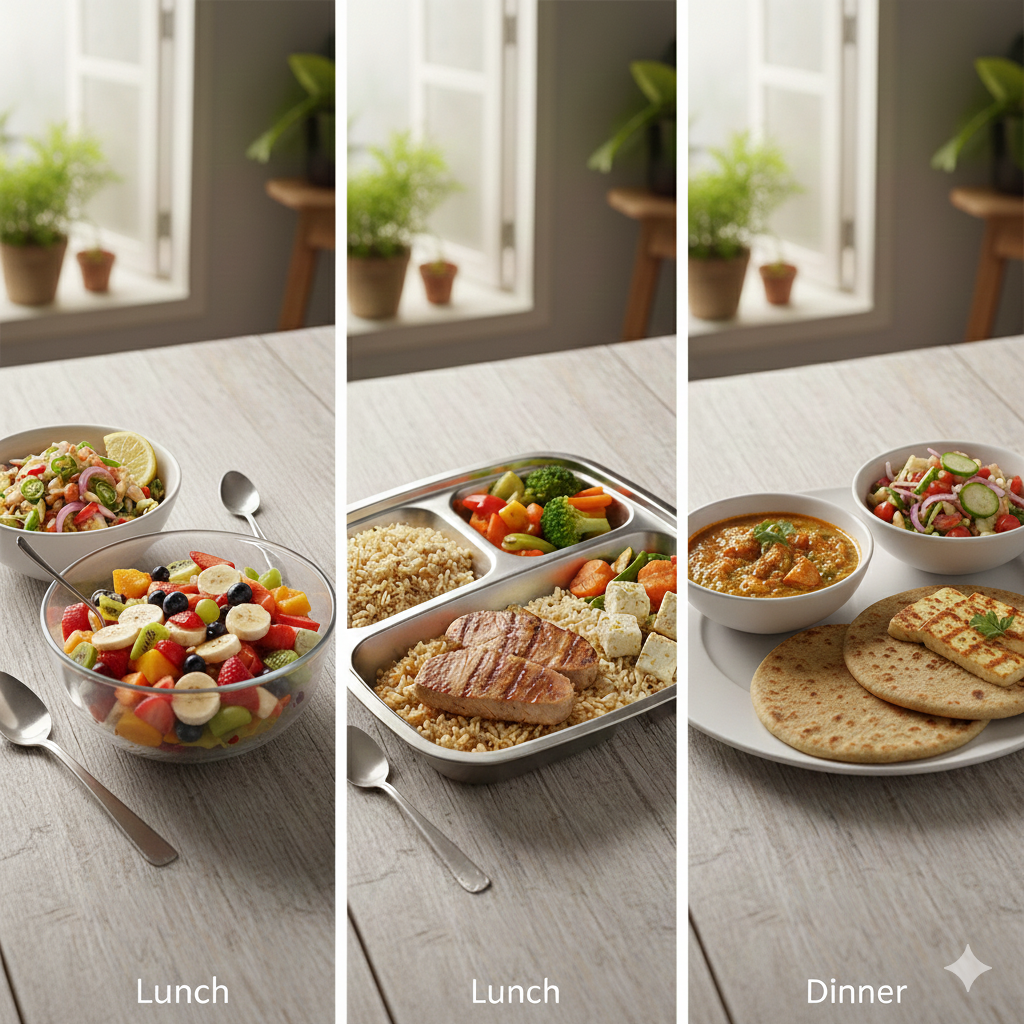
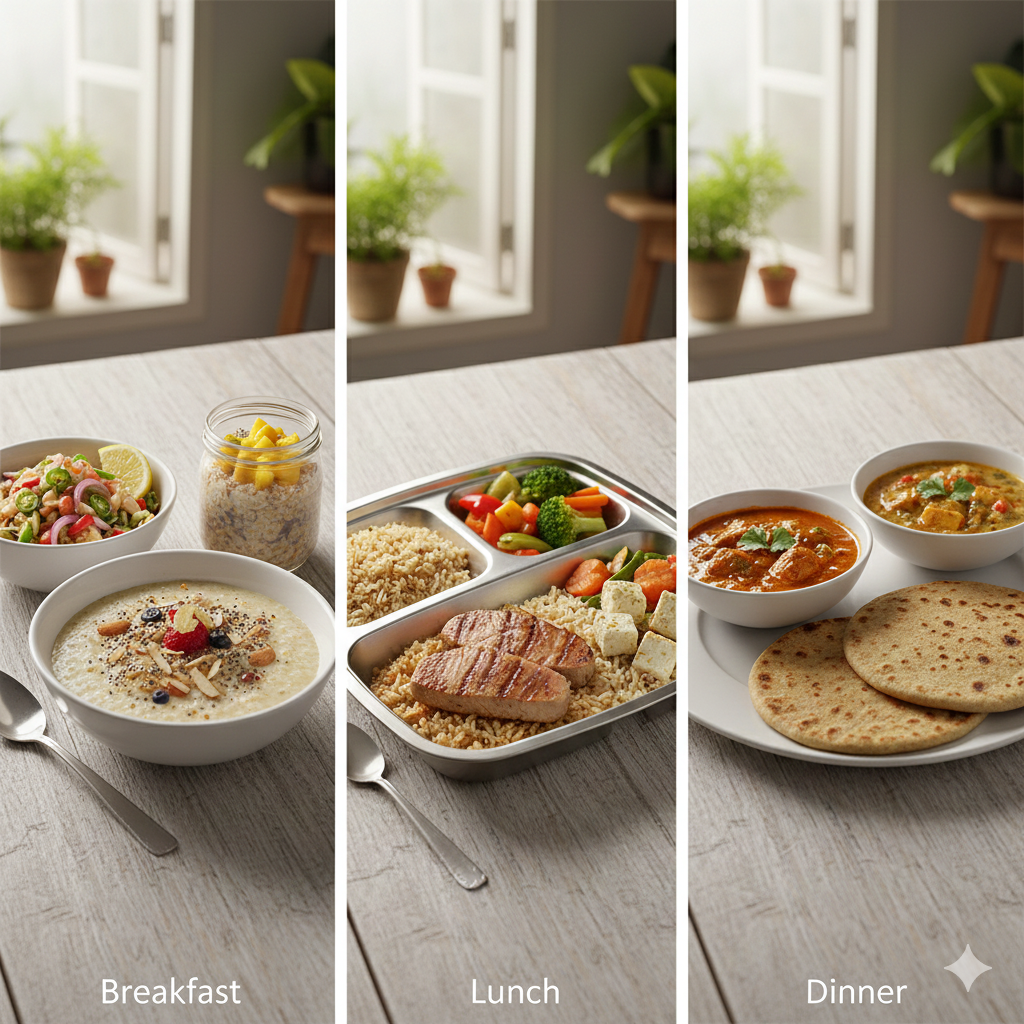
changes

diff --git a/src/data/menuData.ts b/src/data/menuData.ts
@@ -558,7 +558,7 @@ export const foodItems: FoodItem[] = [
   price: { full: 13000 },
   category: "diet-combo-1-subscription",
   type: "veg",
-  image: "/diet-combo-1-subscription.png",
+  image: "/diet-combo-subscription-veg.png",
   popular: true,
 },
 {
@@ -569,7 +569,7 @@ export const foodItems: FoodItem[] = [
   price: { full: 12500 },
   category: "diet-combo-2-subscription",
   type: "veg",
-  image: "/diet-combo-3-subscription.png",
+  image: "/diet-combo-1-veg-subscription.png",
   popular: true,
 },
 
@@ -629,7 +629,7 @@ export const foodItems: FoodItem[] = [
   price: { full: 15000 },
   category: "diet-combo-2-subscription",
   type: "non-veg",
-  image: "/diet-combo-3-subscription.png",
+  image: "/diet-combo-1-veg-subscription.png",
   popular: true,
 },
 
@@ -1326,7 +1326,7 @@ export const foodItems: FoodItem[] = [
     ingredients: ['Pepper', 'Coriander Seeds', 'Cloves', 'Onion Powder'],
     price: { mini: 400, half: 800, full: 1450 },
     category: 'podulu',
-    type: 'non-veg',
+    type: 'veg',
     popular: true,
     image: '/food-images/Podulu/mutton.jpg',
   },
@@ -1544,7 +1544,7 @@ export const foodItems: FoodItem[] = [
     price: { mini: 150, half: 230, full: 460 },
     category: 'traditional-snacks',
     type: 'veg',
-    image: '/food-images/TraditionalSnacks/nimki.jpg',
+    image: 'https://i1-e.pinimg.com/1200x/ac/d9/6f/acd96fd4dcfbe83124a9b1c66ba903f2.jpg',
   },
   {
     id: 'nuvulu-laddu-bellam',

diff --git a/src/pages/TypeSelection.tsx b/src/pages/TypeSelection.tsx
@@ -6,7 +6,6 @@ const IMAGE_ONLY_CATEGORIES = [
   "cakes",
   "traditional-snacks",
   "rice-mix",
-  "podulu",
   "breakfast-subscription",
   "breakfast-box",
   "diet-fruit-bowl",
